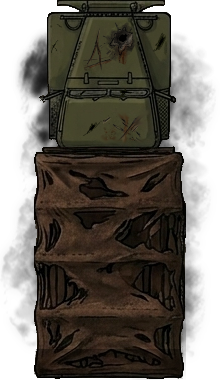
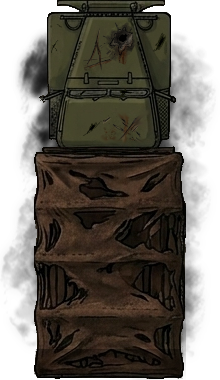
truck rubble pt2

Changed region(s): [[0.1091, 0.3184, 0.2727, 0.4053], [0.7091, 0.3474, 0.7909, 0.4053], [0.8182, 0.4053, 0.8455, 0.4342]]

diff --git a/src/GameDemo/RTSDemo/RTSAssetManager.java b/src/GameDemo/RTSDemo/RTSAssetManager.java
@@ -95,7 +95,7 @@ public abstract class RTSAssetManager {
     
     public static BufferedImage sandbagsForTank, sandbagsForTankDamaged;
     
-    public static BufferedImage truckHull, truckHullRed, truckHullDamaged, truckHullDamagedRed, truckRubble, truckRubbleRed;
+    public static BufferedImage truckHull, truckHullRed, truckHullDamaged, truckHullDamagedRed, truckRubble, truckRubbleRed, truckDeathShadow;
     public static BufferedImage truckWheel;
 
     public synchronized static void initialize() {
@@ -291,6 +291,7 @@ public abstract class RTSAssetManager {
             truckWheel = load("DemoAssets/TankGame/truck/tire.png");
             truckRubble = load("DemoAssets/TankGame/truck/greenRubble2.png");
             truckRubbleRed = greenToRed(truckRubble);
+            truckDeathShadow = load("DemoAssets/TankGame/truck/deathShadow.png");
         }, executor);
     }
 

diff --git a/src/GameDemo/RTSDemo/Units/Truck.java b/src/GameDemo/RTSDemo/Units/Truck.java
@@ -75,7 +75,7 @@ public class Truck extends RTSUnit implements Transport {
         hullSpriteDestroyedRed.applyAlphaEdgeBlurSelf(1);
         hullShadow.applyAlphaEdgeBlurSelf(2);
         
-        deathFadeout = Sequence.createFadeout(RTSAssetManager.tankDeadHullShadow, 40);
+        deathFadeout = Sequence.createFadeout(RTSAssetManager.truckDeathShadow, 40);
         deathFadeout.setSignature("deathFadeoutTruck");
 
         wheelSprite = new Sprite(RTSAssetManager.truckWheel);